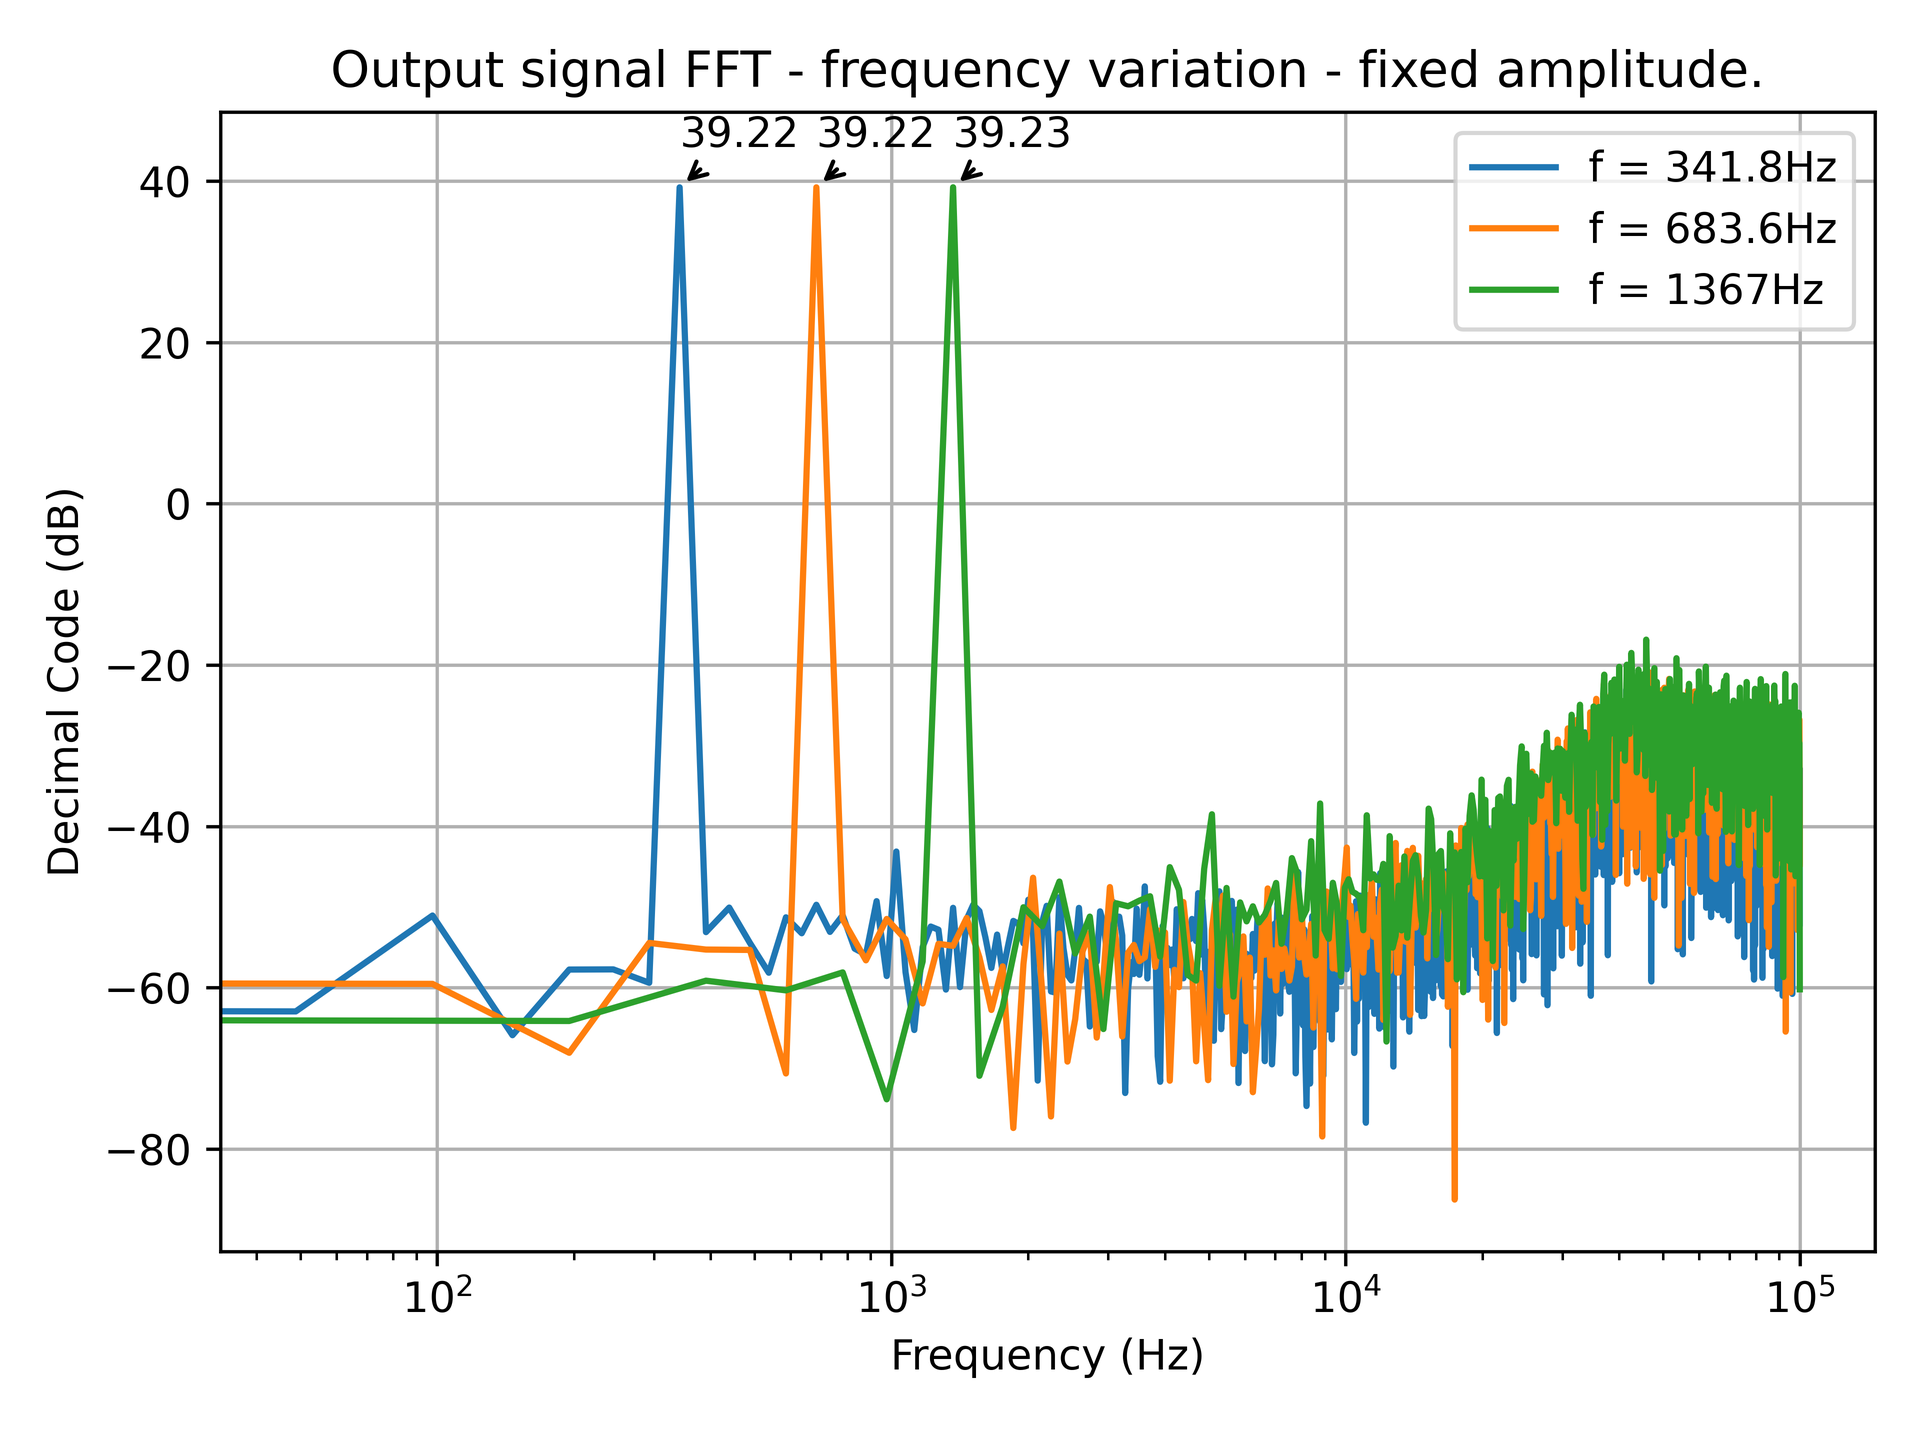
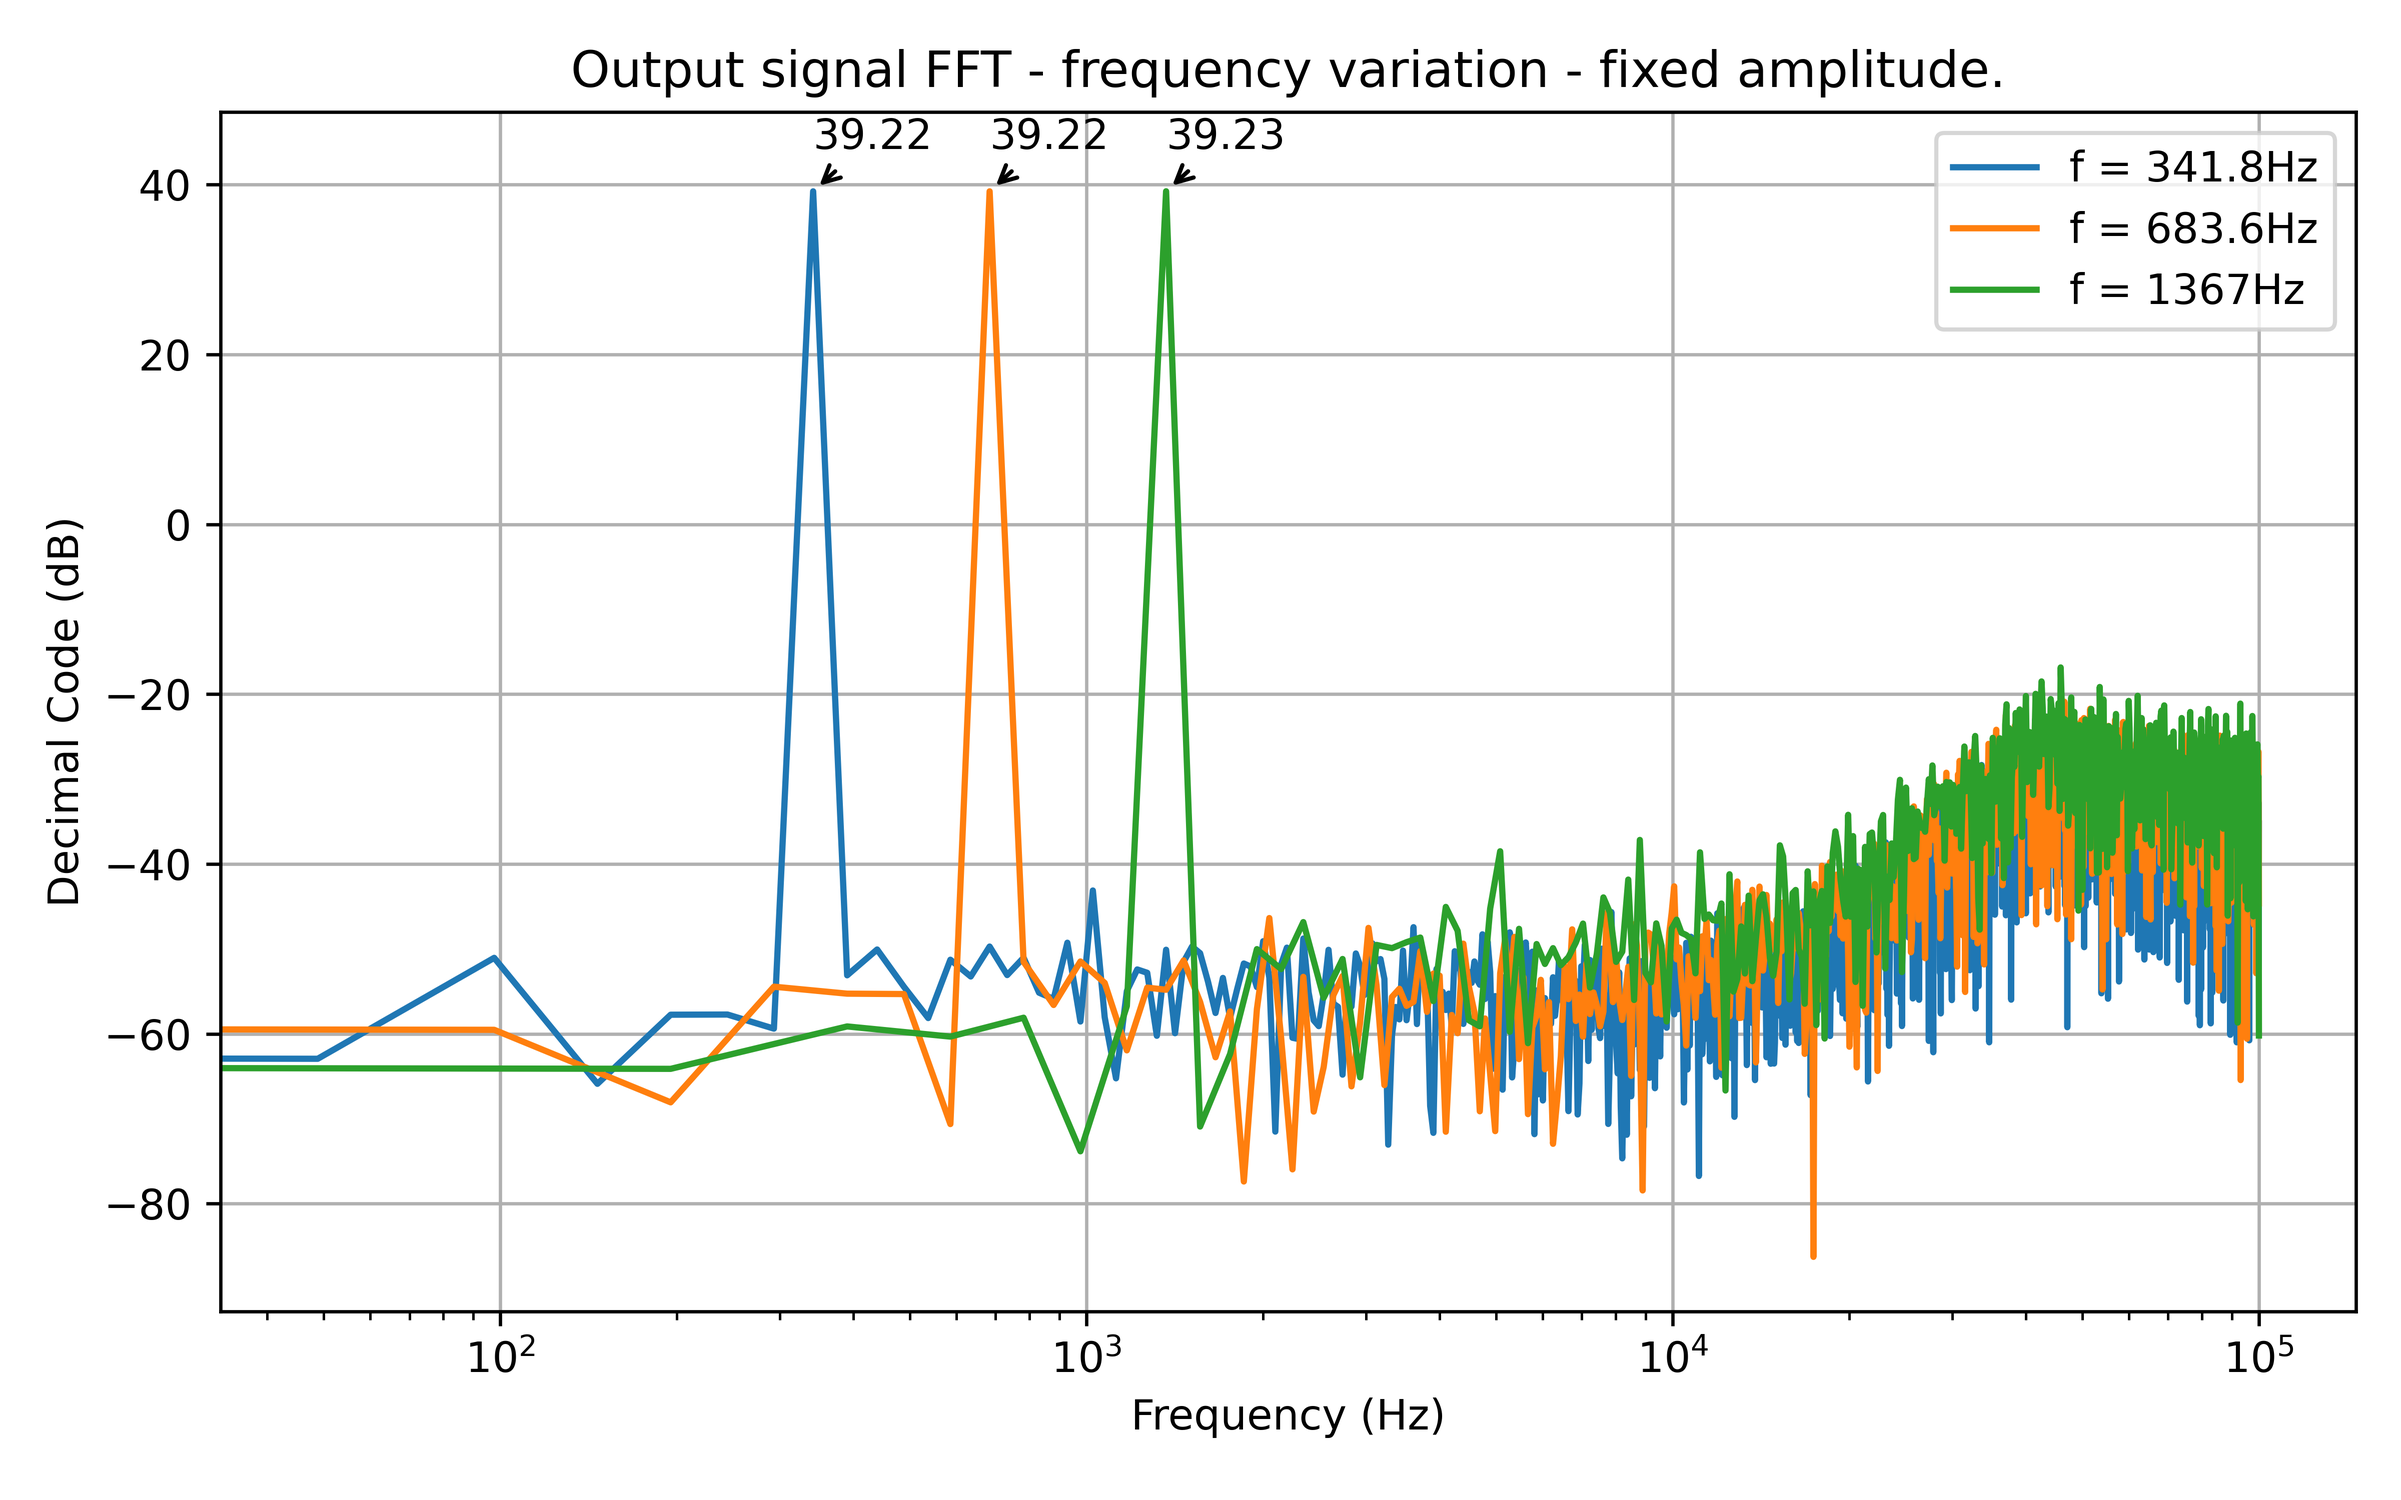
chaned figsize of the plots.

diff --git a/csvresults/Oct29/results.py b/csvresults/Oct29/results.py
@@ -4,7 +4,7 @@ import matplotlib.pyplot as plt
 
 # function to plot FFT from a single dataset with different signals in different columns
 def plot_FFT_va(data, preheader, param, paramcorr, paramunit, looplist, xlabel, ylabel, title, savename, xtextcorr, ytextcorr, dpi=600):
-    plt.figure()
+    plt.figure(figsize=(8,5))
     for va in looplist:
         col_x = preheader +  " (" + param + "=" + str(va) + ") X"
         col_y = preheader +  " (" + param + "=" + str(va) + ") Y"
@@ -28,7 +28,7 @@ def plot_FFT_va(data, preheader, param, paramcorr, paramunit, looplist, xlabel, 
 
 # function to plot time domain signals
 def plot_signal_va(data, preheader, param, paramcorr, paramunit, looplist, nsamples, xlabel, ylabel, title, savename, dpi=600):
-    plt.figure()
+    plt.figure(figsize=(8,5))
     for va in looplist:
         col_x = preheader +  " (" + param + "=" + str(va) + ") X"
         col_y = preheader +  " (" + param + "=" + str(va) + ") Y"
